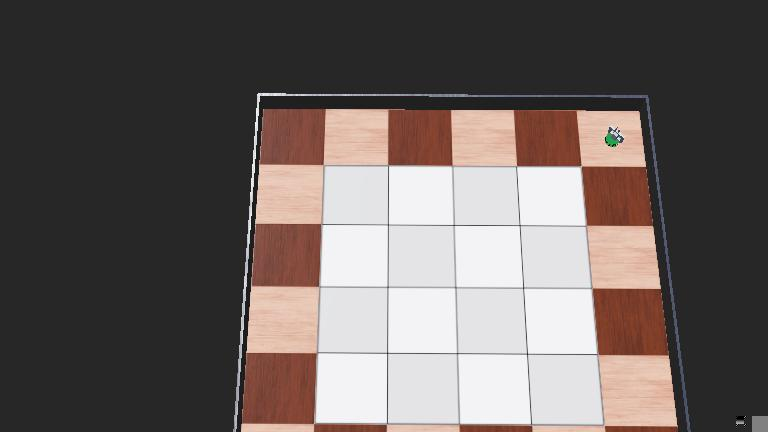
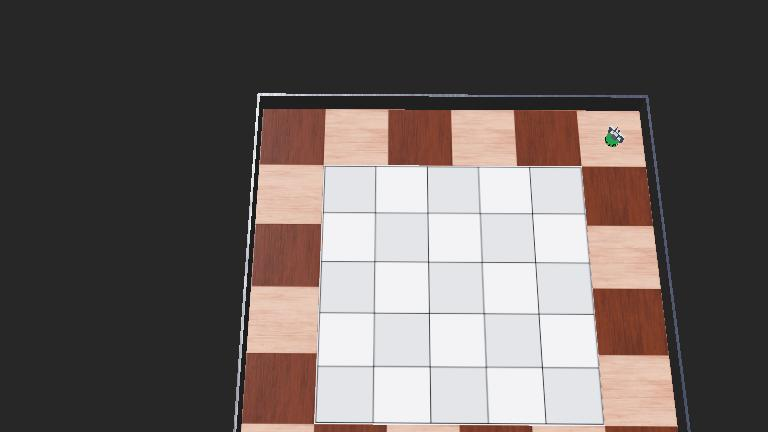
khepera1

diff --git a/Sprint #3 - Robots/khepera1/controllers/overhead_camera_controller/overhead_camera_controller.py b/Sprint #3 - Robots/khepera1/controllers/overhead_camera_controller/overhead_camera_controller.py
@@ -2,16 +2,12 @@ from controller import Robot, Camera, Emitter, Receiver, Keyboard,Supervisor
 from datetime import datetime
 import os
 from numpy import pi
-
-
 from Game import *
 
-state=Board(4,4)
-for i in range(8):
-    state[i]=1
-    
-for i in range(8,16):
-    state[i]=2
+sys.path.insert(0, os.path.abspath('../../game/'))
+print(sys.path)
+from my_game import *
+state=initial_state()
 
 def reset_home():
     robot_node = robot.getSelf()
@@ -152,13 +148,37 @@ if arena is None:
 
 floor_size_field = arena.getField("floorSize")
         
-#num_rows,num_columns = state.shape
-#floor_size_field.setSFVec2f([(num_columns+2)*0.25, 
-#                                (num_rows+2)*0.25])
+num_rows,num_columns = state.shape
+floor_size_field.setSFVec2f([(num_columns+2)*0.25, 
+                               (num_rows+2)*0.25])
+
+num_rows,num_columns = state.shape
+floor_size_field.setSFVec2f([(4+2)*0.25, 
+                               (4+2)*0.25])
 
 
-for r in range(4):
-    for c in range(4):
+floor=None
+for i in range(children_field.getCount()):
+    node = children_field.getMFNode(i)
+    if node.getTypeName() == "Floor":
+        floor = node
+        break
+
+
+# Navigate to the ImageTexture url field
+appearance = floor.getField('appearance').getSFNode()
+base_color_map = appearance.getField('baseColorMap').getSFNode()
+url_field = base_color_map.getField('url')
+
+# Change the texture URL
+R,C=state.shape
+texture_fname=f"../textures/squares{R}x{C}.png"
+if not os.path.exists("../"+texture_fname):
+    texture_fname=f"../textures/blank.png"
+url_field.setMFString(0, texture_fname)
+
+for r in range(state.shape[0]):
+    for c in range(state.shape[1]):
         x,y=row_col_to_translation(r,c)
         add_piece(x,y,state[r,c])
 

diff --git a/Sprint #3 - Robots/khepera1/controllers/my_controller/my_controller.py b/Sprint #3 - Robots/khepera1/controllers/my_controller/my_controller.py
@@ -140,15 +140,15 @@ open_grip()
 
 while robot.step(timestep) != -1:
 
-    forward(2000) # ms
+    forward(2300) # ms
     
     arm_down()
 
     stop(500) # ms
 
 
-    left(800) # ms
-    forward(2500) # ms
+    left(900) # ms
+    forward(2800) # ms
 
     close_grip()
     stop(200) # ms

diff --git a/Sprint #3 - Robots/khepera1/controllers/my_controller2/my_controller2.py b/Sprint #3 - Robots/khepera1/controllers/my_controller2/my_controller2.py
@@ -140,15 +140,15 @@ open_grip()
 
 while robot.step(timestep) != -1:
 
-    forward(2000) # ms
+    forward(2300) # ms
     
     arm_down()
 
     stop(500) # ms
 
 
-    left(800) # ms
-    forward(2500) # ms
+    left(900) # ms
+    forward(2800) # ms
 
     close_grip()
     stop(200) # ms

diff --git a/Sprint #3 - Robots/khepera1/game/my_game.py b/Sprint #3 - Robots/khepera1/game/my_game.py
@@ -1,0 +1,14 @@
+from Game import *
+
+def initial_state():
+    state=Board(5,5)
+
+    N=prod(state.shape)
+
+    for i in range(N//2):
+        state[i]=1
+        
+    for i in range(N//2,N):
+        state[i]=2    
+    return state
+
